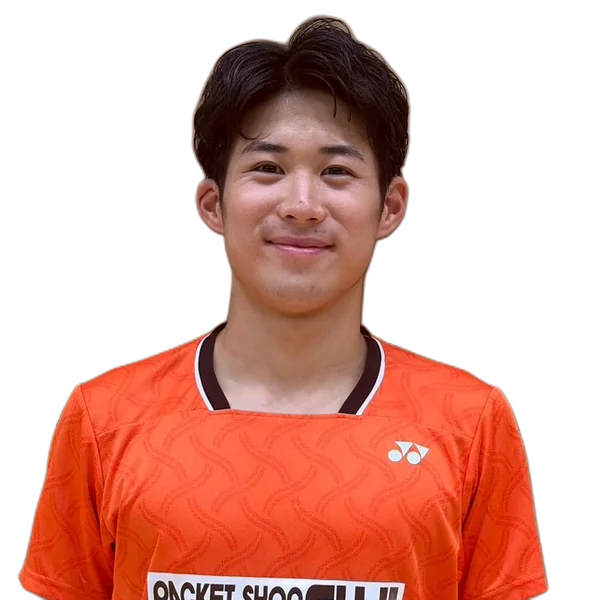
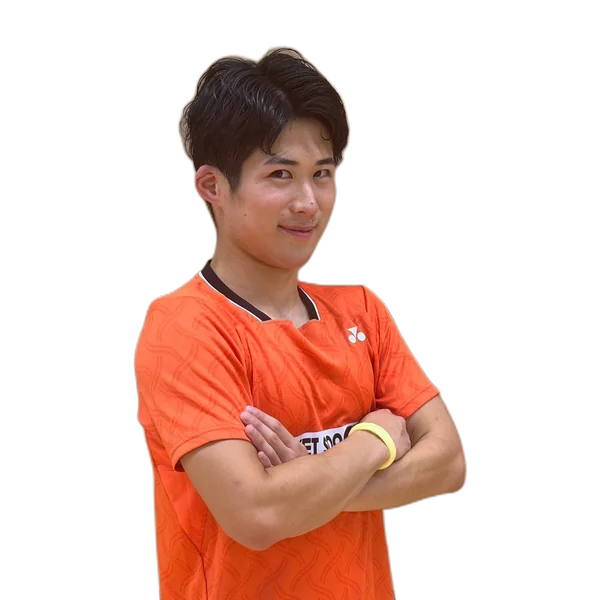
feat: 法政大学の顔写真を腕組みが見える引きの構図に変更
- 腕組みしている写真に選び直し、顔の大きさをそろえて上半身まで入るように切り抜き
- 大きいカードでは紹介文の箱より上に腕組みまで収まるように表示

Claude-Session: https://claude.ai/code/session_01Wk8UTRwZze1Btp5UhCxVkg

diff --git a/index.html b/index.html
@@ -2534,17 +2534,17 @@
       /* 切り抜き写真：頭の上に少し余白をとる（背景が透明なので上はチーム色になる） */
       .mini-card-photo .pc-photo-img,
       .pc-photo .pc-photo-img {
-        top: 7%;
-        height: 93%;
+        top: 4%;
+        height: 96%;
         object-fit: cover;
         object-position: center top;
       }
       /* 大きいカードは紹介文の箱に顔がかからないよう、少し小さくして上寄せ */
       .pc-photo .pc-photo-img {
-        top: 3%;
+        top: 0;
         left: 50%;
-        width: 80%;
-        height: auto;
+        width: auto;
+        height: calc(100% - 72px);
         aspect-ratio: 1 / 1;
         transform: translateX(-50%);
       }
